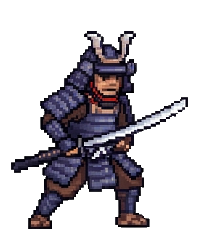
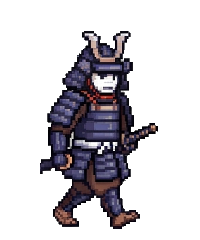
arte: los cuatro pasos del samurái recortados con cajas fijas (ya no desenvaina al caminar)

Changed region(s): [[0.03, 0.1167, 0.96, 0.9625]]

diff --git a/scripts/recortar-arte.py b/scripts/recortar-arte.py
@@ -922,6 +922,13 @@ TROPAS = [
     ("sprites-tropas-era3.png", (300, 820, 2752, 1190), "oni"),
     ("sprites-tropas-era3.png", (300, 1195, 2752, 1530), "kitsune"),
 ]
+# Los samuráis se tocan entre sí en la hoja: sus pasos van con cajas fijas.
+TROPAS_FIJAS = [
+    ("sprites-tropas-era3.png", "samurai-caminar-0", (380, 90, 585, 405)),
+    ("sprites-tropas-era3.png", "samurai-caminar-1", (590, 90, 785, 405)),
+    ("sprites-tropas-era3.png", "samurai-caminar-2", (790, 90, 990, 405)),
+    ("sprites-tropas-era3.png", "samurai-caminar-3", (995, 90, 1195, 405)),
+]
 ALTO_TROPA = 200
 
 ALTO_ALDEANO = 220
@@ -954,7 +961,21 @@ def extraer_era2() -> None:
         _guardar(pieza, "edificio-sombra-muro-terminado.png", escala=escala)
 
     print("Tropas")
+    for nombre_hoja, nombre, caja in TROPAS_FIJAS:
+        piezas = _piezas_de_fila(hoja(nombre_hoja), caja, hueco_min=200)
+        if not piezas:
+            print(f"  ⚠ {nombre}: no se encontró el cuadro")
+            continue
+        pieza = max(piezas, key=lambda im: im.width * im.height)
+        escala = ALTO_TROPA / pieza.height
+        pieza = pieza.resize((max(1, round(pieza.width * escala)), ALTO_TROPA), Image.Resampling.NEAREST)
+        lienzo = Image.new("RGBA", LIENZO_ALDEANO, (0, 0, 0, 0))
+        lienzo.alpha_composite(pieza, ((LIENZO_ALDEANO[0] - pieza.width) // 2, LIENZO_ALDEANO[1] - 10 - pieza.height))
+        _guardar(lienzo, f"tropa-{nombre}.png")
+
     for nombre_hoja, banda, tipo in TROPAS:
+        if tipo == "samurai":
+            continue
         piezas = _piezas_de_fila(hoja(nombre_hoja), banda, hueco_min=20)
         if len(piezas) < 7:
             print(f"  ⚠ {tipo}: esperaba al menos 7 cuadros y hay {len(piezas)}")
